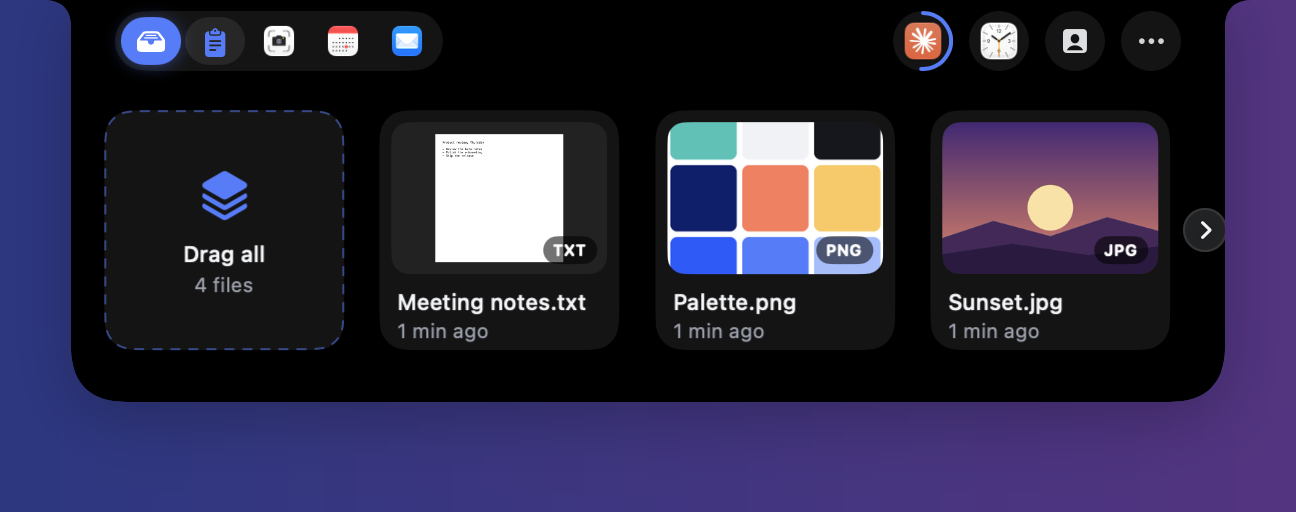
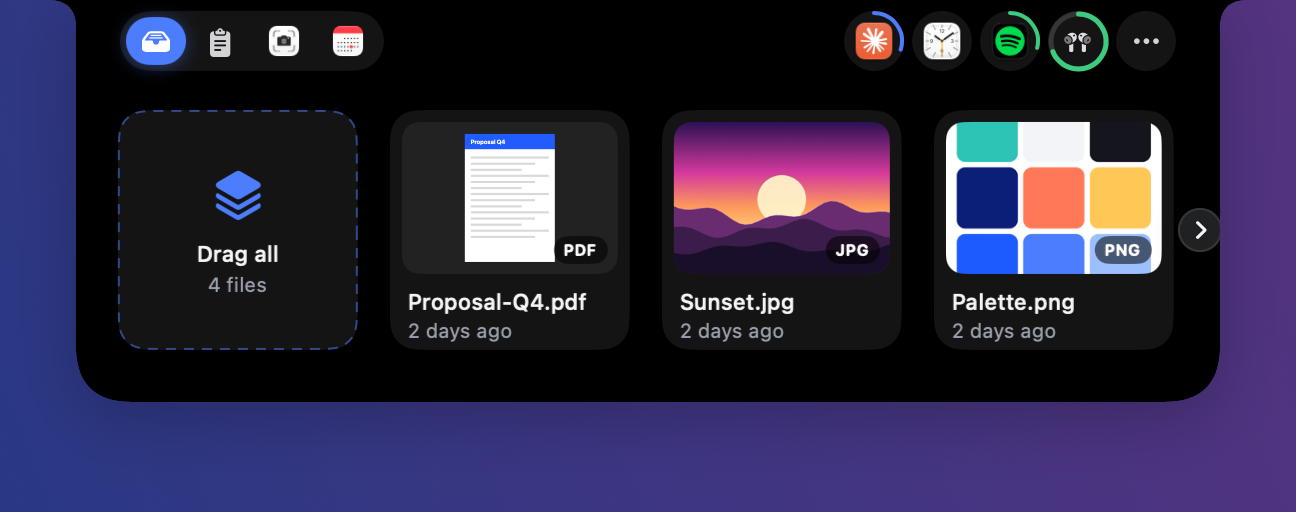
README: music, calls, AirPods and screenshots folder, island alerts, new screenshots

diff --git a/README.md b/README.md
@@ -7,7 +7,7 @@
 <p align="center">
   <strong>Your Mac's notch, turned into a useful place.</strong><br>
   Move the pointer to the top of the screen and your files, everything you copied, your agenda,<br>
-  your mail and your AI agents are right there. No windows, no searching, nothing covered up.
+  your music, your calls and your AI agents are right there. No windows, no searching, nothing covered up.
 </p>
 
 <p align="center">
@@ -48,12 +48,42 @@ the arrow keys and press <kbd>Return</kbd>. Passwords are never saved.
 ## Your day at a glance
 
 - **Agenda** for today and the next few days, with a button to **join the meeting** and a
-  countdown in the notch when it's about to start.
+  countdown in the notch when it's about to start. Events that already ended disappear, and
+  when the day changes it jumps to today.
 - **Reminders** you haven't done yet, to check off without opening anything.
 - **Just type it:** "Coffee with Ana tomorrow at 10" creates the event.
 - **Mail:** your latest messages, read and unread. Open one, read it and **reply** right in
   the notch, or mark it as read. Choose which senders get an alert. Works with Mail and the
   classic Outlook.
+
+## Your music, one click away
+
+<p align="center">
+  <img src="docs/images/music.png" width="760" alt="Spotify player with artwork, progress and controls under the notch">
+</p>
+
+While Spotify or Music is playing, its logo shows up in the notch with a ring for the song's
+progress. Click it for a small player with the artwork, the time left and previous,
+play/pause and next. When nothing else needs your attention, the closed notch shows what's
+playing.
+
+## Calls without hunting for the window
+
+<p align="center">
+  <img src="docs/images/call.png" width="760" alt="Call button with mute, camera and hang up">
+</p>
+
+In a call on Teams, Zoom, Meet, FaceTime or Discord, a green phone button replaces the rest:
+**mute, camera and hang up** without leaving what you're doing. A red badge reminds you when
+you're muted, and the meeting reminder goes away as soon as you join. Visor doesn't repeat
+the microphone indicator macOS already shows.
+
+## AirPods and screenshots
+
+- **AirPods battery** for each earbud and the case, from the moment you connect them.
+- **Screenshots in their own folder:** Visor moves them off the Desktop to
+  *Pictures/Screenshots* (or uses the folder you already had) and shows the latest ones in the
+  notch, ready to drag.
 
 ## Keep an eye on your AI agents
 
@@ -70,15 +100,17 @@ resets**, with an alert at 80 % and 95 %.
 
 Volume, battery, AirPods, finished downloads, meetings, new mail, agents, Focus,
 notifications… they show up beside the notch for a moment and go away. They never cover
-your menu bar icons: if one side has no room, they use the other.
+your menu bar icons: if there's no room beside the notch, the alert grows below it as a small
+island, sized to its text.
 
 **Click an alert** and the notch opens a little to show a preview, with a button to go
 straight to the mail, the session, the download or the meeting.
 
 ## A clock in the notch
 
-A timer with pause and any duration, alarms, and *keep awake*, laid out like the Clock app.
-The time left shows as a ring around the button.
+A timer you set with hours, minutes and seconds wheels, your recent durations a click away,
+alarms and *keep awake*, laid out like the Clock app. The time left shows as a ring around the
+button.
 
 ## And a few shortcuts
 
